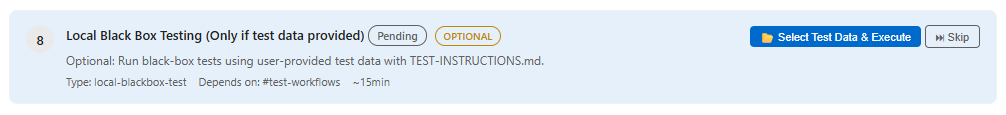
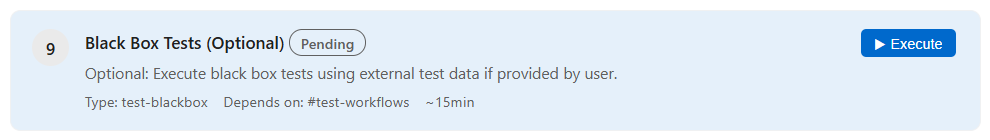
Updates

diff --git a/articles/logic-apps/migration/migration-agent-quickstart.md b/articles/logic-apps/migration/migration-agent-quickstart.md
@@ -10,7 +10,7 @@ ms.reviewers: estfan, azla
 ms.topic: how-to
 ai-usage: ai-assisted
 ms.update-cycle: 180-days
-ms.date: 04/21/2026
+ms.date: 04/24/2026
 # Customer intent: As a developer who works with enterprise integration platforms, such as BizTalk Server, Mulesoft, or others, I want to learn how to quickly automate the migration process for my integration project to Standard workflows in Azure Logic Apps by using the Migration Agent extension in Visual Studio Code.
 ---
 
@@ -72,7 +72,7 @@ Before you start, meet the following requirements:
 
    > [!TIP]
    >
-   > From the Command Palette (Keyboard Ctrl + Shift + P), find and run **Azure Logic Apps Migration Agent: Select Source Folder**.
+   > To run this as a command, open the Command Palette (Keyboard: Ctrl+Shift+P). Enter and run **Azure Logic Apps Migration Agent: Select Source Folder**.
 
 1. Find and select the source folder that contains your BizTalk, MuleSoft, or other integration projects, then select **Select Source Project Folder or MSI**.
 
@@ -163,9 +163,9 @@ After you finish your analysis, start the Planning stage by creating a migration
 
 1. On the **Home** tab, choose the logical flow group you want, and select **Plan Logic App Design**.
 
-   :::image type="content" source="./media/migration-agent-quickstart/plan-logic-app-design.png" alt-text="Screenshot that shows migration agent home page with Plan Logic App Design selected.":::
+   :::image type="content" source="./media/migration-agent-quickstart/plan-logic-app-design-stage.png" alt-text="Screenshot that shows migration agent home page with Plan Logic App Design selected.":::
 
-   For each logical flow group, the `@migration-planner` agent generates a migration plan that usually includes the following sections:
+   The `@migration-planner` agent generates a migration plan that usually includes the following sections:
 
    | Section name | Description |
    |--------------|-------------|
@@ -181,7 +181,7 @@ After you finish your analysis, start the Planning stage by creating a migration
 
    The following example shows a sample generated migration plan:
 
-   :::image type="content" source="./media/migration-agent-quickstart/planning-stage-main.png" alt-text="Screenshot that shows the Planning stage with the migration plan for each flow and action mappings.":::
+   :::image type="content" source="./media/migration-agent-quickstart/planning-stage-main.png" alt-text="Screenshot that shows the Planning stage with the migration plan for a logical group flow and action mappings.":::
 
 1. Review each plan carefully and make any necessary updates.
 
@@ -189,65 +189,126 @@ After you finish your analysis, start the Planning stage by creating a migration
    >
    > To edit the generated plans, ask questions about specific mappings, or request alternative approaches, interact with the `@migration-planner` agent by using Copilot chat.
 
-   :::image type="content" source="./media/migration-agent-quickstart/planning-stage-create.png" alt-text="Screenshot that shows the Planning stage with the migration plan for a logical flow and action mappings.":::
+1. When you're ready, continue to the Conversion stage by selecting **Home Page** or returning to the **Home** tab.
 
-1. When you're ready, continue to the Create (Conversion Tasks) stage by selecting **Home Page** or returning to the **Home** tab.
+## Stage 3: Conversion
 
-## Stage 3: Create
+When you're satisfied with your migration plan, start the Conversion stage to generate conversion tasks that transform source artifacts into Standard workflows for Azure Logic Apps.
 
-When you're satisfied with your migration plan, start the Create stage to task conversions that transform your source artifacts into Standard workflows for Azure Logic Apps.
+1. On the **Home** tab, for your logical flow, select **Create Conversion Tasks**.
 
-:::image type="content" source="./media/migration-agent-quickstart/conversion-stage-main.png" alt-text="Screenshot that shows the Conversion stage generating Logic Apps Standard workflow files.":::
+   :::image type="content" source="./media/migration-agent-quickstart/create-conversion-tasks-stage.png" alt-text="Screenshot that shows the Conversion stage for generating conversion tasks.":::
 
-The `@migration-converter` agent executes the task plans from the planning stage:
+   The `@migration-converter` agent creates conversion tasks, which vary based your specific logical flow group. The conversion process produces complete, ready-to-run Standard workflow definitions. The `@migration-converter` agent uses the `no-stubs-code-generation` skill to make sure all generated code is fully functional.
+   
+   The following example shows sample task plans for a logical flow group named `Method Call Processing`:
 
-1. **Scaffolds the Logic Apps project** structure, including `host.json`, `local.settings.json`, and folder layout.
+   1. **Scaffold Logic Apps Project**
+   
+      Creates the Standard logic app project structure with the required folder hierarchy and files.
 
-1. **Generates `workflow.json` files** for each flow, using Logic Apps Standard workflow definitions.
+   1. **Convert Input Schema**
 
-1. **Creates `connections.json`** with the required connector configurations.
+      Migrates the *InputSchema.xsd* file from BizTalk format, which is UTF-16 with BizTalk annotations, to standard XSD, which is UTF-8 without BizTalk annotations.
 
-1. **Generates .NET local functions** when custom logic is needed that isn't available through built-in connectors.
+   1. **Convert Output Schema**
 
-1. **Validates completeness** to ensure no stubs or placeholder code remain in the generated output.
+      Migrates the *OutputSchema.xsd* file from BizTalk format, which is UTF-16 with BizTalk annotations, to standard XSD, which is UTF-8 without BizTalk annotations.
 
-> [!NOTE]
-> The conversion process produces complete, ready-to-run workflow definitions. The `@migration-converter` agent uses the `no-stubs-code-generation` skill to ensure that all generated code is fully functional.
+   1. **Generate <*connector-name*> Connections**
+   
+      Creates or updates the *connections.json* file that contains the configurations for the required <*connector-name*> connection.
+
+   1. **Generate <*workflow-name*> Workflow**
+
+      Creates the *workflow.json* file that contains the Standard workflow definition in Azure Logic Apps for the logical flow group.
+
+   1. **Generate Local Functions (<*function-names*>)**
+
+      Creates .NET 8 local functions for custom logic in the source code.
+
+   1. **Validate Runtime (func start)**
+
+      Validates the logic app project by running `func start`to confirm that all functions and workflows are ready.
+
+   1. **E2E Testing (Happy Path & Error Path)**
+
+      Runs end-to-end tests for the happy path, error path, and field-level validation.
+
+   1. **Black Box Tests (Optional)**
+
+      Runs tests that use external test data that you provide.
+
+   1. **Cloud Deployment & Testing (Optional)**
+
+      Deploys to Azure and run cloud E2E tests.
+
+1. To run each conversion task, select **Execute**, and then stop before **Cloud Deployment & Testing**.
+
+   The following example shows sample generated conversion tasks for the `Method Call Processing` logical flow:
+
+   :::image type="content" source="./media/migration-agent-quickstart/conversion-stage-main.png" alt-text="Screenshot that shows the Conversion stage with generated conversion tasks that create Standard workflow files for Azure Logic Apps.":::
+
+1. When you finish, continue to the Validation stage by selecting **Home Page** or returning to the **Home** tab.
 
 ## Stage 4: Validation
 
-The validation stage tests the generated workflows against the source specifications.
+After the migration agent completes converting your source artifacts to Standard workflows, test the generated workflows against your source specifications. The `@migration-converter` agent provides runtime validation and testing guidance. 
+The Validation stage lets you bring your own test cases and specifications. Your goal is to confirm that your converted workflow performs as expected.
 
-Use this stage to:
+For this stage, complete the following tasks:
 
-- Run generated workflows locally using the Azure Functions runtime and Docker Desktop.
-- Identify and fix any discrepancies.
-- Compare the behavior of the generated workflows with the original integration flows. The Validation stage provides the ability to **bring your own test cases and specifications**. This steps is key to validate your integration workload performs as expected.
+1. On the **Home** tab, for your logical flow, select **Open in Visual Studio Code**.
 
-:::image type="content" source="./media/migration-agent-quickstart/validation-stage-blackbox.png" alt-text="Screenshot that shows the Validation stage with Balck box testing.":::
+1. In your migration folder, go to the **out** directory, and select the generated solution folder, for example:
 
-The extension provides runtime validation and testing guidance through the `@migration-converter` agent. You can verify the generated solution in the out directory.
+   :::image type="content" source="./media/migration-agent-quickstart/validation-stage-generated-output.png" alt-text="Screenshot that shows the local path for where to find the generated code and solution.":::
 
-:::image type="content" source="./media/migration-agent-quickstart/deployment-stage-outcome.png" alt-text="Screenshot that shows the path of the generated code.":::
+1. Validate that the generated solution and code are complete. Make sure that no stubs or placeholder code remain.
+
+1. Locally run the generated workflows by using the Azure Functions runtime and the Docker Desktop.
+
+   For example, if you haven't done so, run the **Black Box Tests (Optional)** task with external test data that you provide:
+
+   :::image type="content" source="./media/migration-agent-quickstart/validation-stage-blackbox.png" alt-text="Screenshot that shows optional Black Box Tests.":::
+
+1. Compare the behavior of the generated workflows against the original integration flows.
+
+1. Identify and fix any discrepancies.
 
 ## Stage 5: Deployment
 
-The final stage deploys your migrated Logic Apps artifacts to Azure. Before deployment, configure the following extension settings at **Settings** > **Extensions** > **Logic Apps Migration Agent**:
+This last stage deploys your migrated solution to Azure Logic Apps.
 
-- **Azure Subscription ID**: Your Azure subscription for deployment.
-- **Resource Group**: The target resource group for provisioning.
-- **Location**: The Azure region for your resources.
+1. Before you start, view the extension's settings. From the **File** menu, go to **Preferences** > **Settings** > **Extensions** > **Logic Apps Migration Agent**.
 
-:::image type="content" source="./media/migration-agent-quickstart/deployment-stage-main.png" alt-text="Screenshot that shows the end to end testing with deployment in target environment.":::
+1. Update the following deployment setting values as appropriate:
 
-The extension uses the Azure CLI to provision the required infrastructure and deploy your Logic Apps Standard workflows. The following is a complete solution.
+   | Setting name | Description | Default | Action |
+   |--------------|-------------|---------|--------|
+   | **Location** | The Azure region for provisioning resources. | `eastus` | Change this value to the region you want. |
+   | **Resource Group** | The Azure resource group for provisioning and testing. | `integration-migration-tool-test-rg` | Change this value to the resource group name you want. |
+   | **Subscription ID** | The Azure subscription ID for deployment. | (empty) | Enter the GUID for your Azure subscription. |
+   | **Deployment Model** | The target deployment model for Azure Logic Apps (Standard). | `workflow-service-plan` | If appropriate, change this value to `hybrid`. |
 
-:::image type="content" source="./media/migration-agent-quickstart/deployment-stage-final.png" alt-text="Screenshot that shows the end to end testing with deployment in target environment.":::
+1. To start deployment, run the **Cloud Deployment & Testing** task by selecting **Execute**:
 
+   :::image type="content" source="./media/migration-agent-quickstart/validation-stage-main.png" alt-text="Screenshot that shows the end to end testing with deployment in target environment.":::
+
+   The migration agent provisions the required infrastructure and deploys your Standard logic app resource and workflows by using the Azure CLI.
+
+   The following example shows a sample complete solution:
+
+   :::image type="content" source="./media/migration-agent-quickstart/deployment-stage-final.png" alt-text="Screenshot that shows the end to end testing with deployment in target environment.":::
+   
 ## Reset the migration
 
-If you need to start over, open the Command Palette (**Ctrl+Shift+P**) and run **Logic Apps Migration Agent: Reset Migration**. This command clears all migration state and lets you begin again from the Discovery stage.
+For whatever reason, you can always restart your migration from the beginning. The following command clears the migration state and lets you start again with the Discovery stage.
 
-## Next steps
+1. In Visual Studio Code, open the Command Palette (Keyboard: Ctrl+Shift+P).
+
+1. At the prompt, enter **Azure Logic Apps Migration Agent: Reset Migration**.
+
+## Related content
 
 - [Add a custom parser for a new platform](migration-agent-custom-parsers.md)

diff --git a/articles/logic-apps/migration/migration-agent-overview.md b/articles/logic-apps/migration/migration-agent-overview.md
@@ -105,33 +105,6 @@ Explore your integration architecture through an interactive browser by using th
 | Gap analysis | Summary about features without a direct equivalent in Azure Logic Apps, including suggested resolutions. |
 | Patterns | Detected integration patterns such as publish-subscribe, request-reply, and batch processing. |
 
-## Prerequisites
-
-To use the Azure Logic Apps Migration Agent extension in Visual Studio Code, meet the following requirements:
-
-| Requirement | Purpose |
-|-------------|---------|
-| [Azure subscription - Get a free account](https://azure.microsoft.com/pricing/purchase-options/azure-account?cid=msft_learn) | Deployment to Azure (Stage 5) |
-| [Azure CLI](/cli/azure/install-azure-cli) | Azure resource provisioning and deployment |
-| [Visual Studio Code 1.85.0 or later](https://code.visualstudio.com/download) | Runtime host |
-| [Azure Logic Apps (Standard) extension](https://marketplace.visualstudio.com/items?itemName=ms-azuretools.vscode-azurelogicapps) | Required extension dependency |
-| [Azure Functions extension](https://marketplace.visualstudio.com/items?itemName=ms-azuretools.vscode-azurefunctions) | Local functions runtime and development tasks |
-| [GitHub Copilot subscription](https://github.com/features/copilot/plans) | AI-powered analysis, planning, and conversion |
-| [Docker Desktop](https://docs.docker.com/desktop/setup/install/windows-install/) | Local connector resource deployment for testing |
-
-## Extension settings
-
-The Azure Logic Apps Migration Agent extension in Visual Studio Code provides the following settings that you can update:
-
-| Setting | Description | Default | Options or examples |
-|---------|-------------|---------|---------------------|
-| `logicAppsMigrationAgent.deploymentModel` | The target deployment model for Azure Logic Apps (Standard) | `workflow-service-plan` | `hybrid` |
-| `logicAppsMigrationAgent.azure.subscriptionId` | The Azure subscription ID for deployment | (empty) | Not applicable |
-| `logicAppsMigrationAgent.azure.resourceGroup` | The Azure resource group for provisioning and testing | (empty) | Example: `integration-migration-tool-test-rg` |
-| `logicAppsMigrationAgent.azure.location` | The Azure region for provisioning resources | (empty) | Example: `eastus` |
-
-To view these settings, from the **File** menu, go to **Preferences** > **Settings** > **Extensions** > **Logic Apps Migration Agent**.
-
 ## Next steps
 
 > [!div class="nextstepaction"]
